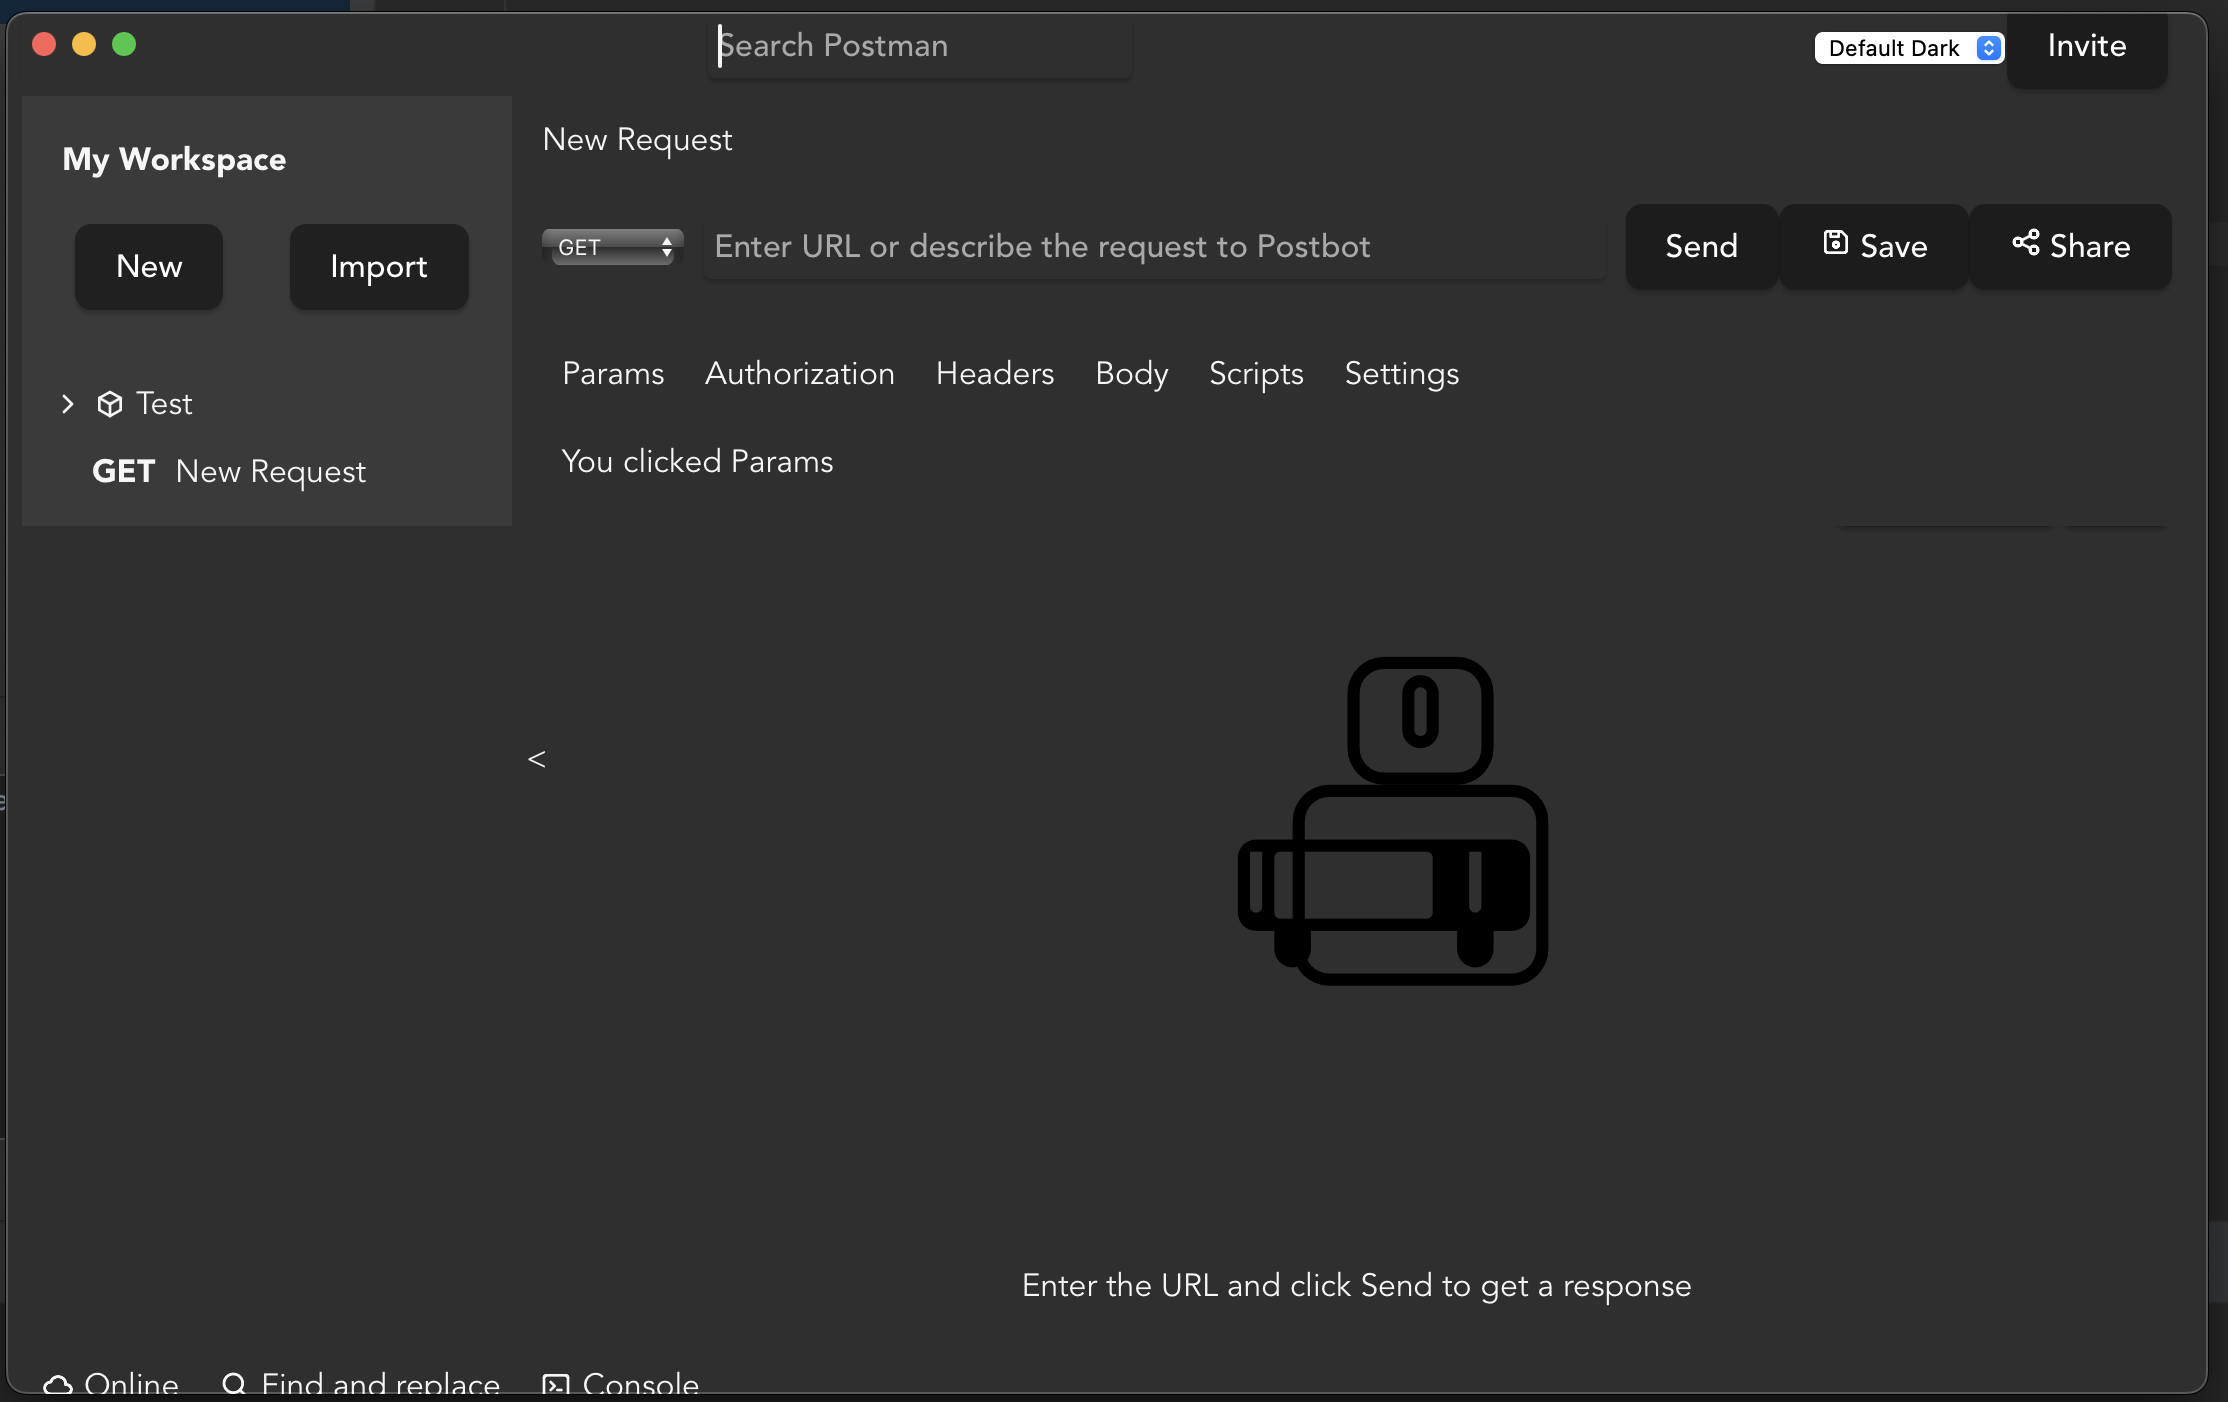
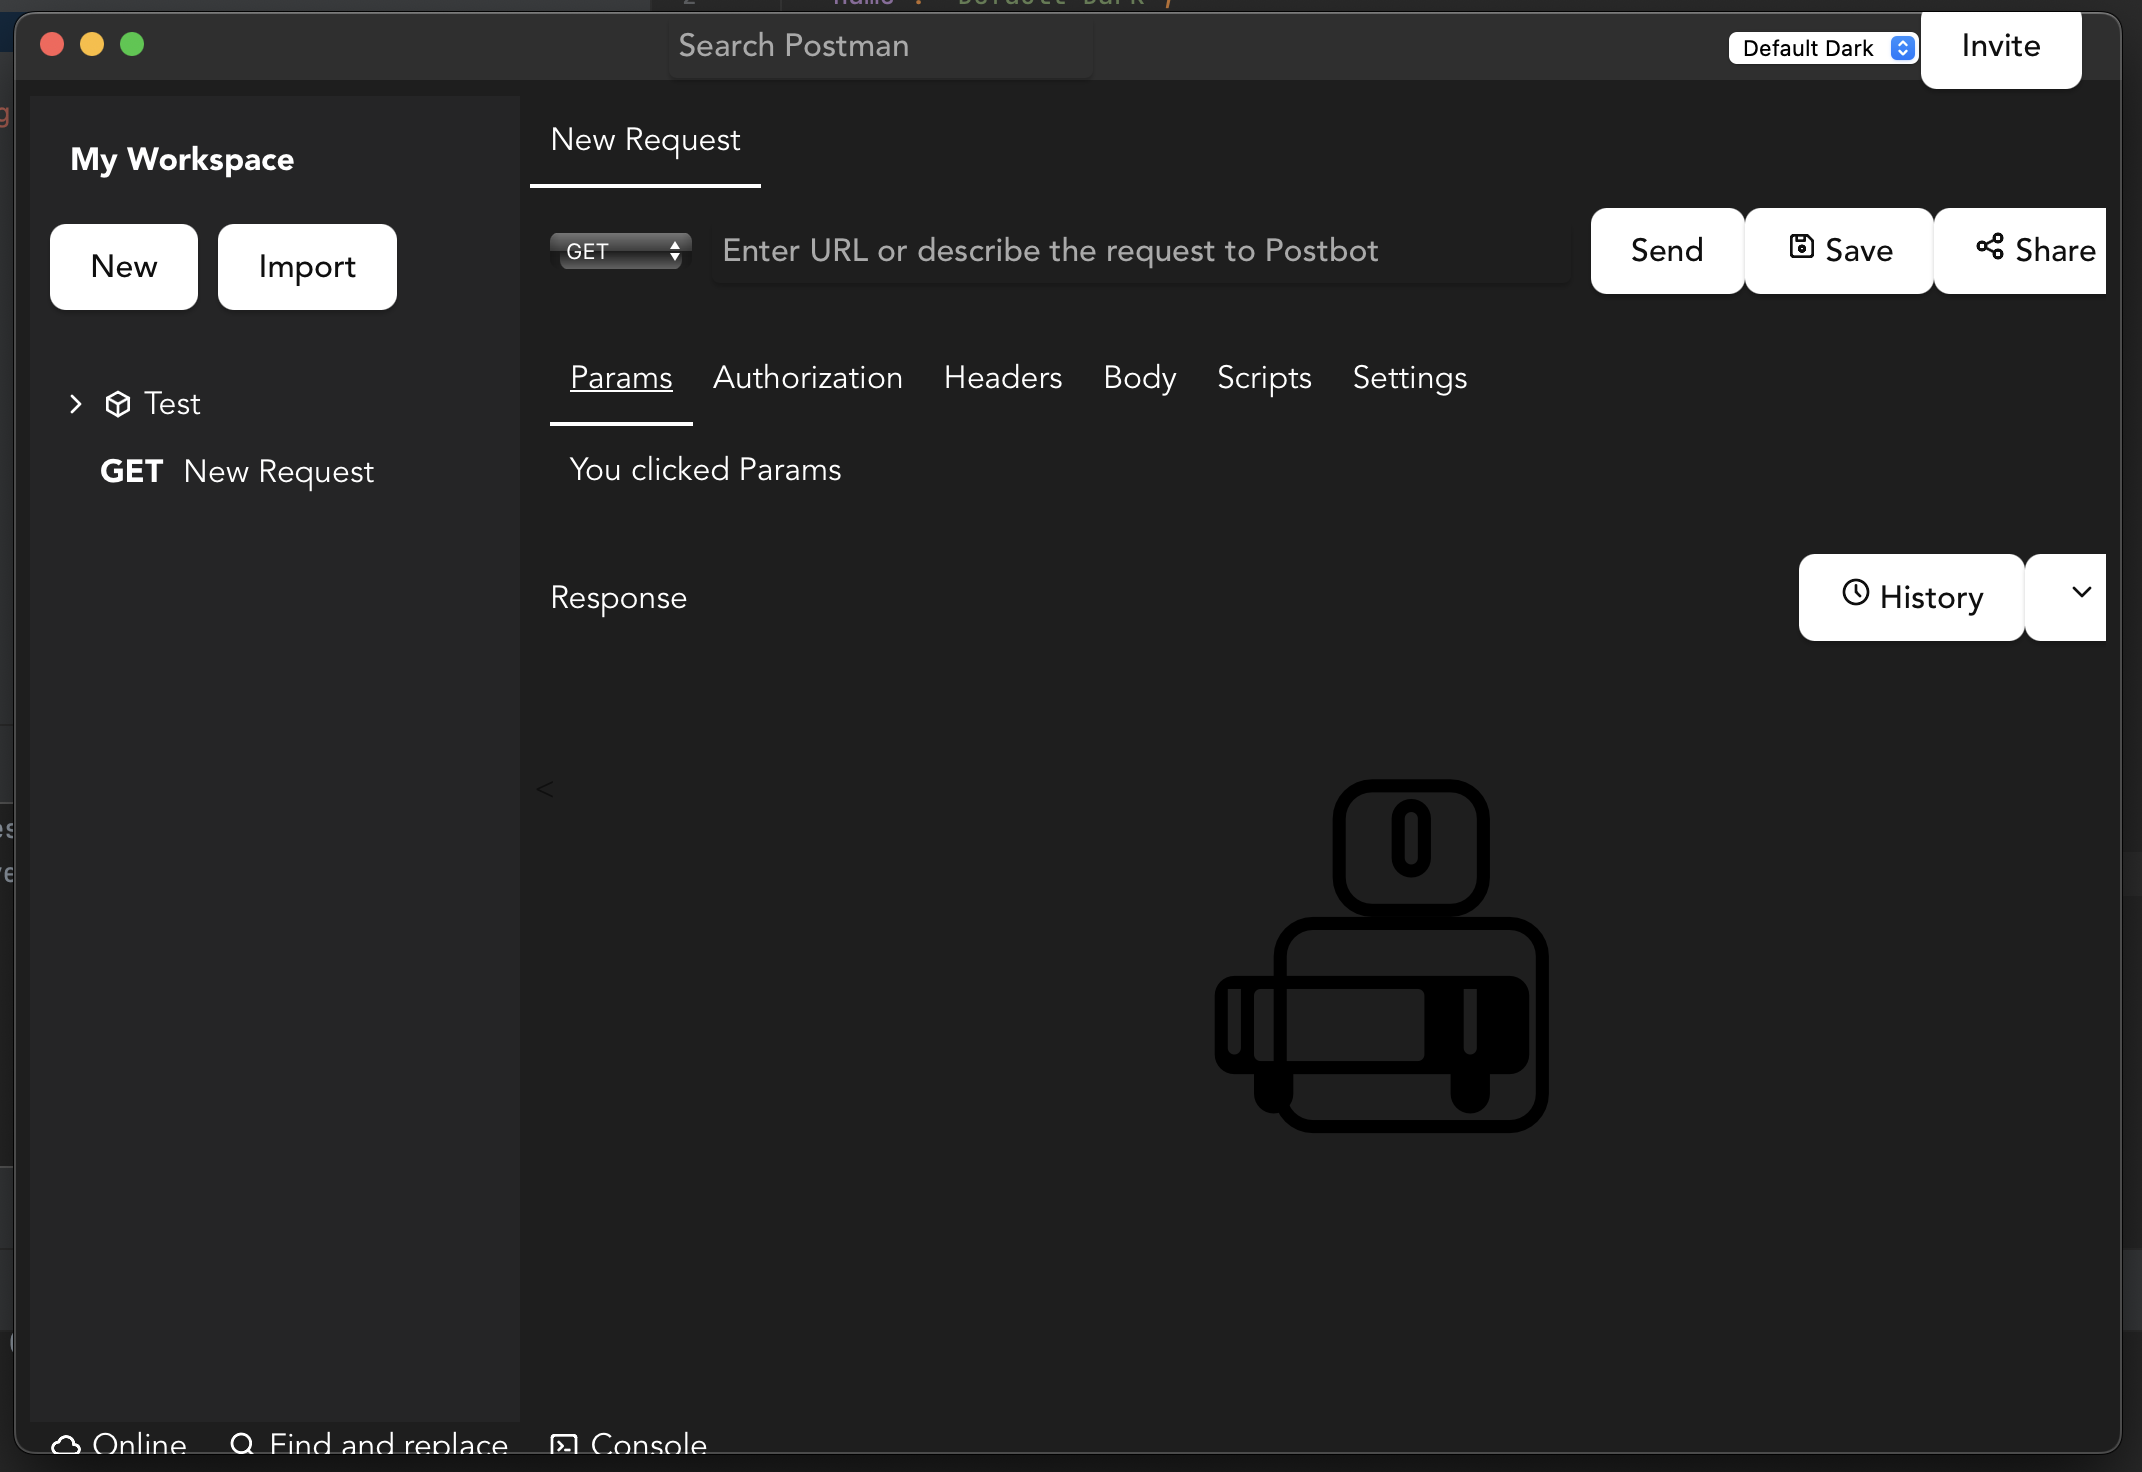
update toolbar and footer styles: replace background colors with new CSS variable for consistent theming

diff --git a/src/styles/titlebar.css b/src/styles/titlebar.css
@@ -7,7 +7,7 @@
   align-items: center;
   -webkit-user-select: none;
   user-select: none;
-  backdrop-filter: saturate(180%) blur(10px); /* optional glassy feel */
+  background-color: var(--color-toolbar-bg);
   padding-left: 10px;
   padding-right: 10px;
 }

diff --git a/src/styles/footer.css b/src/styles/footer.css
@@ -1,7 +1,7 @@
 
 .footer {
   height: 30px;
-  background-color: var(--color-secondary);
+  background-color: var(--color-toolbar-bg);
   border-top: 1px solid var(--color-border);
   display: flex;
   align-items: center;
